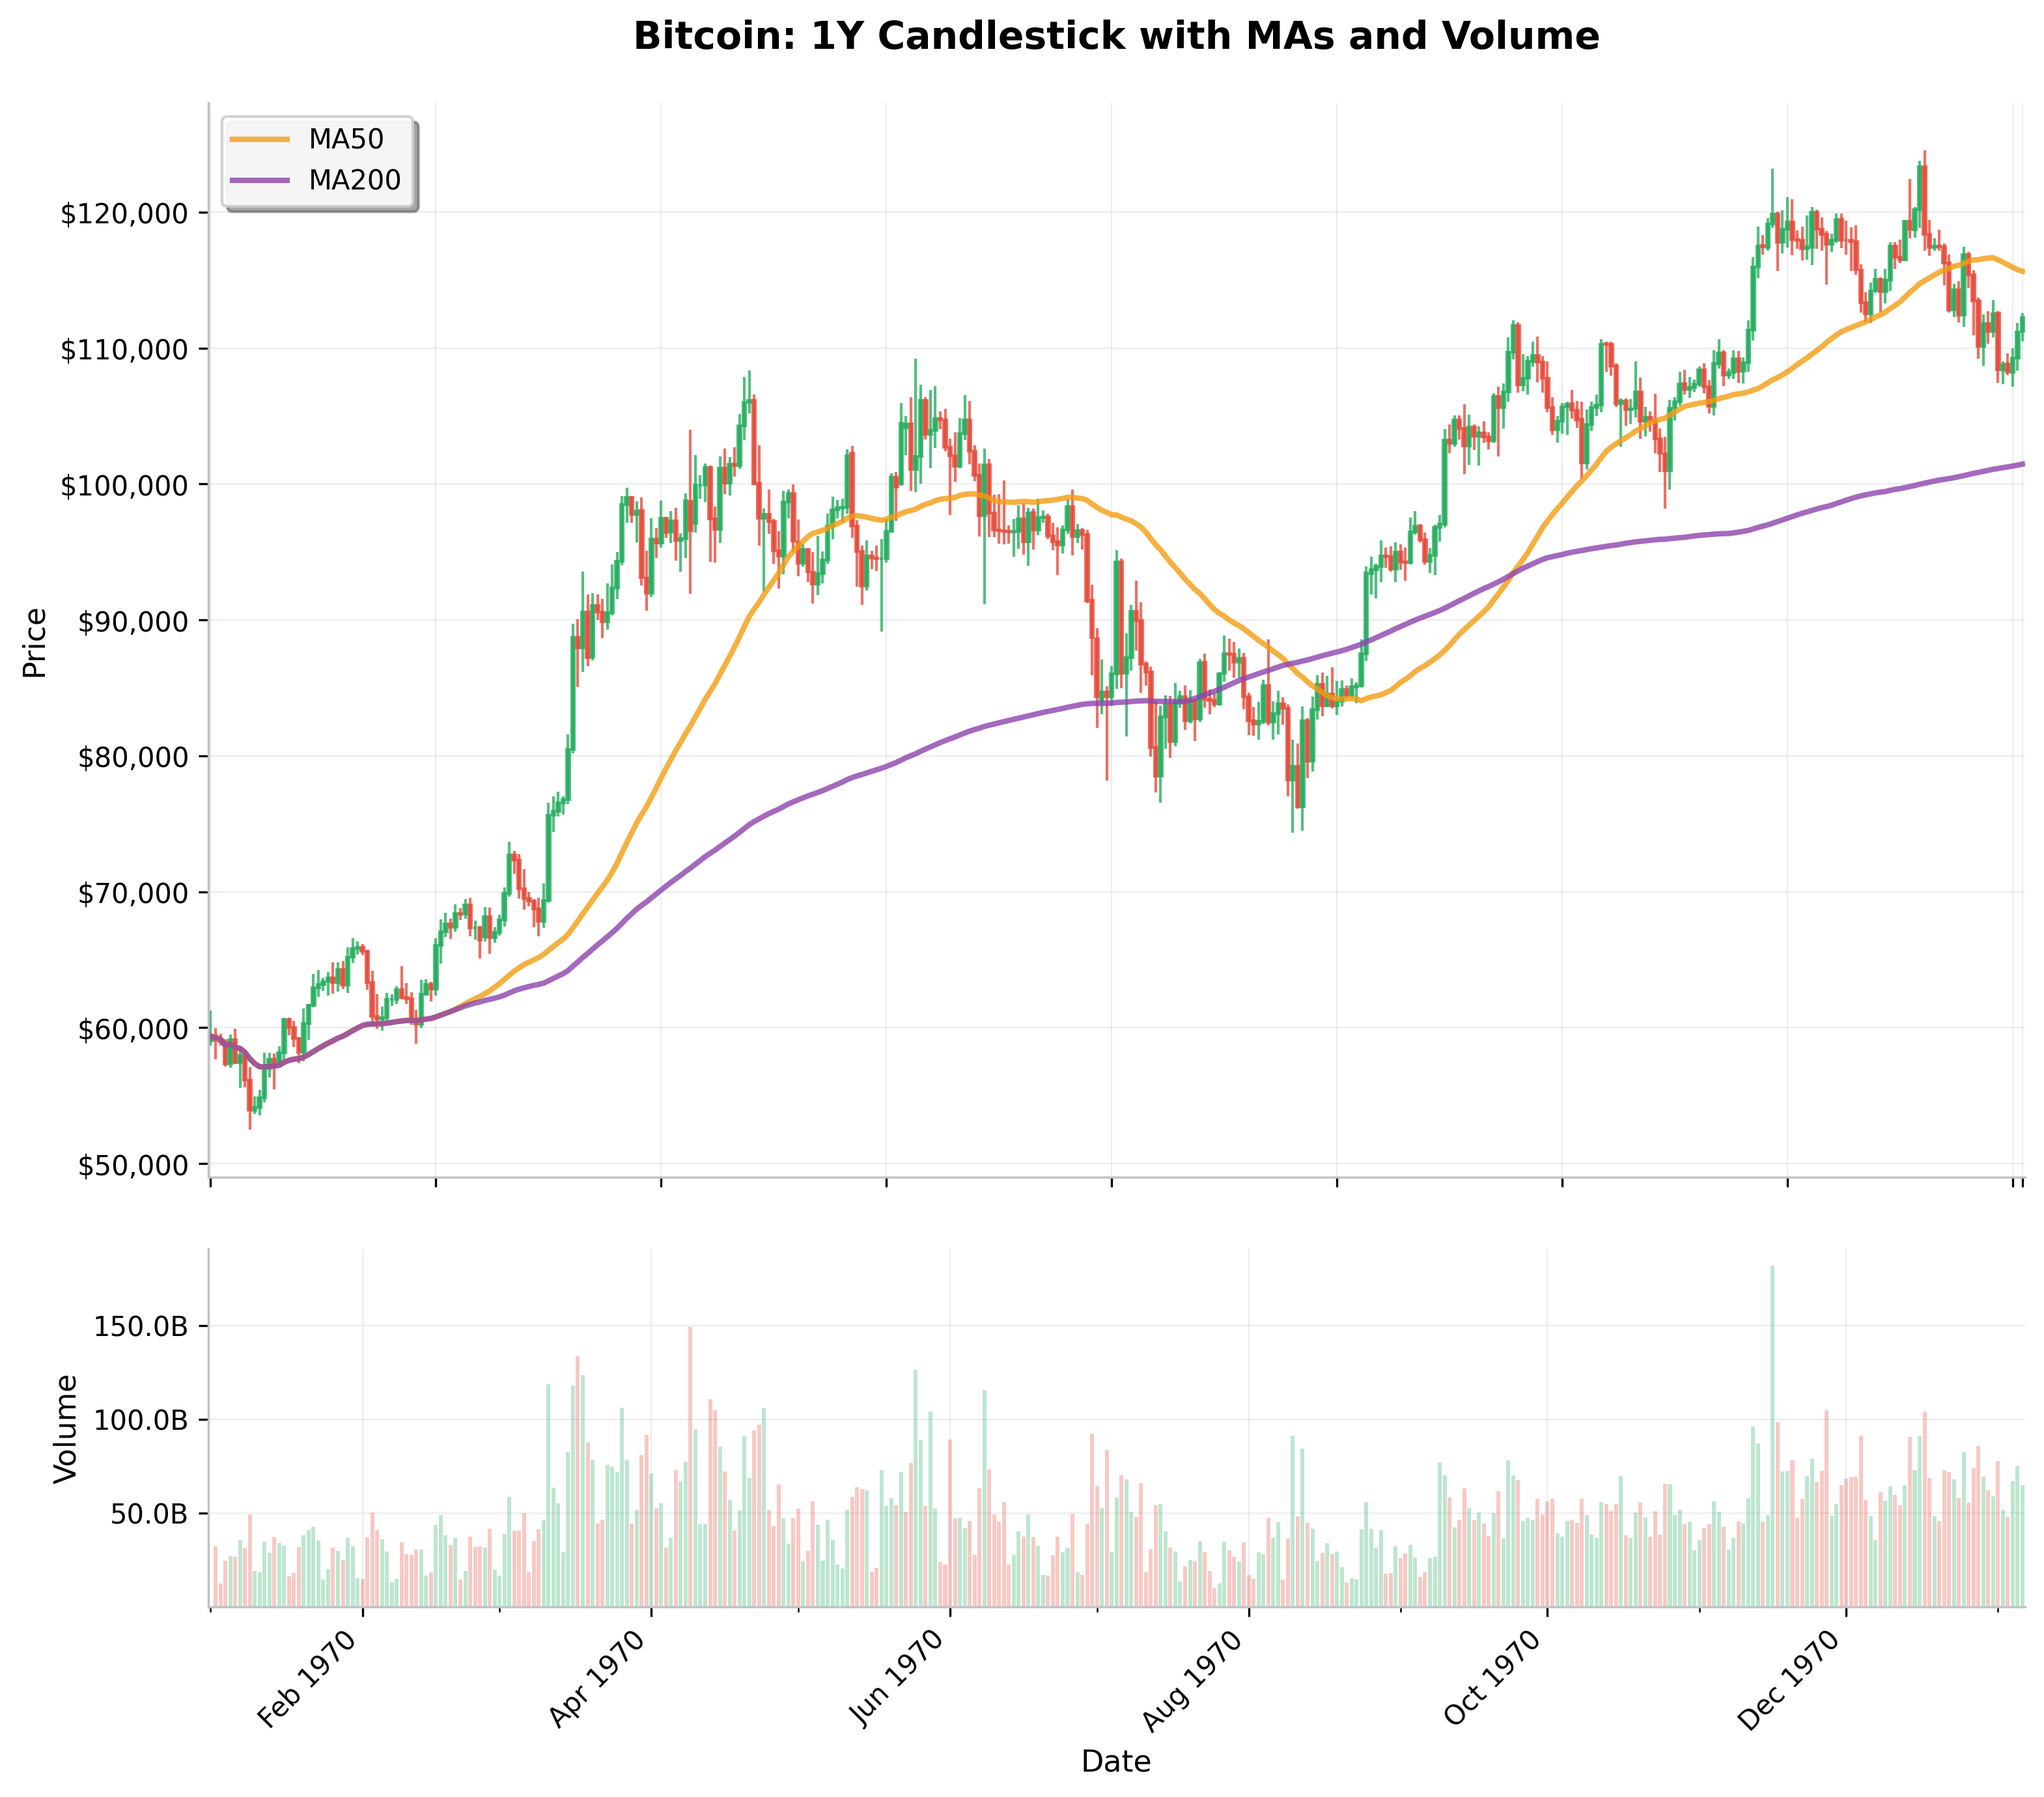
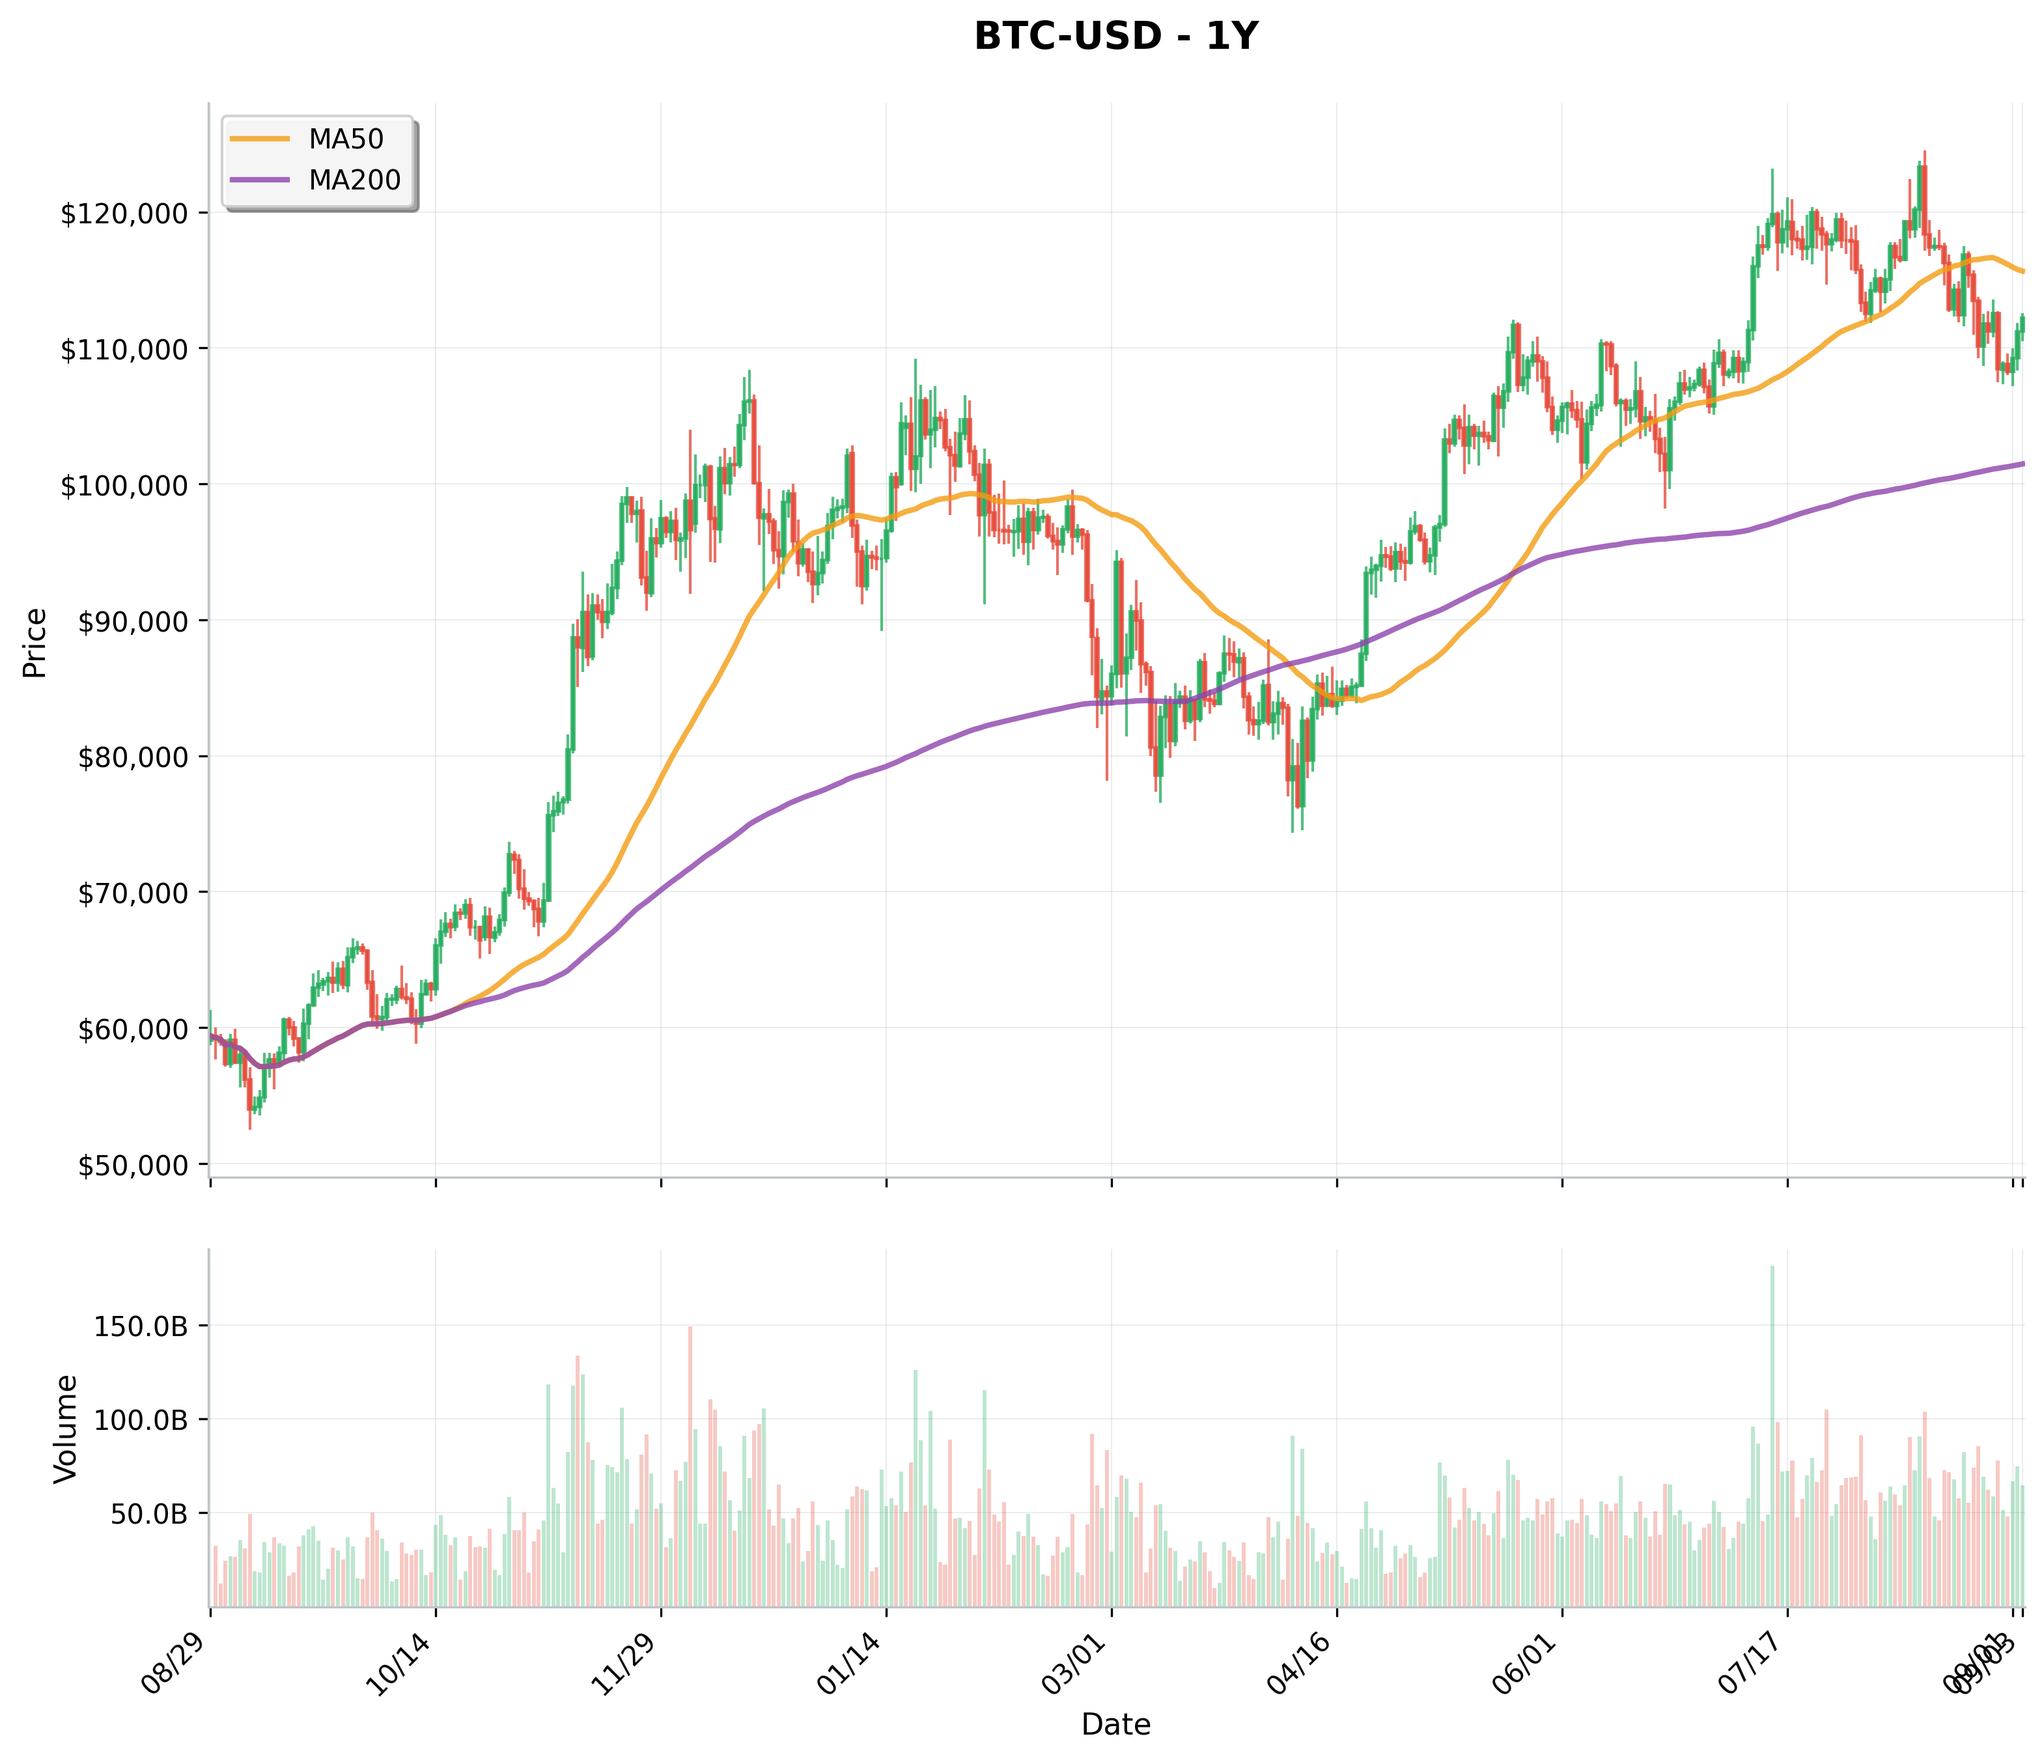
Fix multi-year chart date formatting
- Modified _set_sequential_x_axis() to use year-based formatting for 5Y and MAX timeframes
- Multi-year charts now show YYYY format instead of confusing MM/DD
- Short-term charts (1Y and less) still use MM/DD format as expected
- Added new example charts demonstrating proper year formatting
- Fixed volume subplot date formatting consistency
- All tests passing (20/21, 1 skipped)

diff --git a/src/visualization/chart_engine.py b/src/visualization/chart_engine.py
@@ -98,6 +98,9 @@ class OHLCVChart:
         # Validate parameters
         self._validate_parameters(timeframe, scale, style, price_type, indicators, volume)
         
+        # Store timeframe for use in formatting methods
+        self.timeframe = timeframe
+        
         # Get data for the specified timeframe
         self.data = self._get_data(timeframe, price_type)
         
@@ -398,7 +401,24 @@ class OHLCVChart:
         if label_positions[-1] != len(self.data) - 1:
             label_positions.append(len(self.data) - 1)
         
-        label_dates = [self.data.index[i].strftime('%m/%d') for i in label_positions]
+        # Choose date format based on timeframe
+        timeframe = getattr(self, 'timeframe', '1Y')  # Default to 1Y if not set
+        
+        if timeframe in ['5Y', 'MAX']:
+            # For explicitly multi-year charts, prioritize year information
+            data_span_years = (self.data.index[-1] - self.data.index[0]).days / 365.25
+            
+            if data_span_years > 3:
+                # More than 3 years: Show year only
+                date_format = '%Y'
+            else:
+                # 2-3 years: Show month/year
+                date_format = '%m/%Y'
+        else:
+            # For 1Y and shorter timeframes, keep month/day format as requested
+            date_format = '%m/%d'
+        
+        label_dates = [self.data.index[i].strftime(date_format) for i in label_positions]
         
         # Set custom tick positions and labels
         ax.set_xticks(label_positions)
@@ -459,20 +479,22 @@ class OHLCVChart:
     
     def _format_chart(self, timeframe: str, title: Optional[str]) -> None:
         """Apply formatting to the chart."""
-        # Note: Skip date formatting for main axis since we use sequential positioning
-        # Format main price axis (without date formatting to preserve sequential positioning)
-        if len(self.axes) > 1:
-            # For volume axis, apply full formatting
-            apply_chart_formatting(self.axes[1], self.symbol, self.data, timeframe, 'volume')
-        
+        # Note: Skip date formatting for all axes since we use sequential positioning
         # Apply only price formatting to main axis (skip date formatting)
-        from .formatters import PriceAxisFormatter
+        from .formatters import PriceAxisFormatter, VolumeAxisFormatter
         PriceAxisFormatter.format_price_axis(self.axes[0], self.symbol, self.data['close'])
         self.axes[0].set_ylabel('Price', fontsize=11)
         
-        # Add grid to main axis
+        # Add grid and formatting to main axis
         self.axes[0].grid(True, alpha=0.3)
         self.axes[0].tick_params(axis='both', labelsize=10)
+        
+        # Format volume axis if present (without date formatting to preserve sequential positioning)
+        if len(self.axes) > 1:
+            VolumeAxisFormatter.format_volume_axis(self.axes[1], self.data['volume'])
+            self.axes[1].set_ylabel('Volume', fontsize=11)
+            self.axes[1].grid(True, alpha=0.3)
+            self.axes[1].tick_params(axis='both', labelsize=10)
         
         # Add title
         if title:
